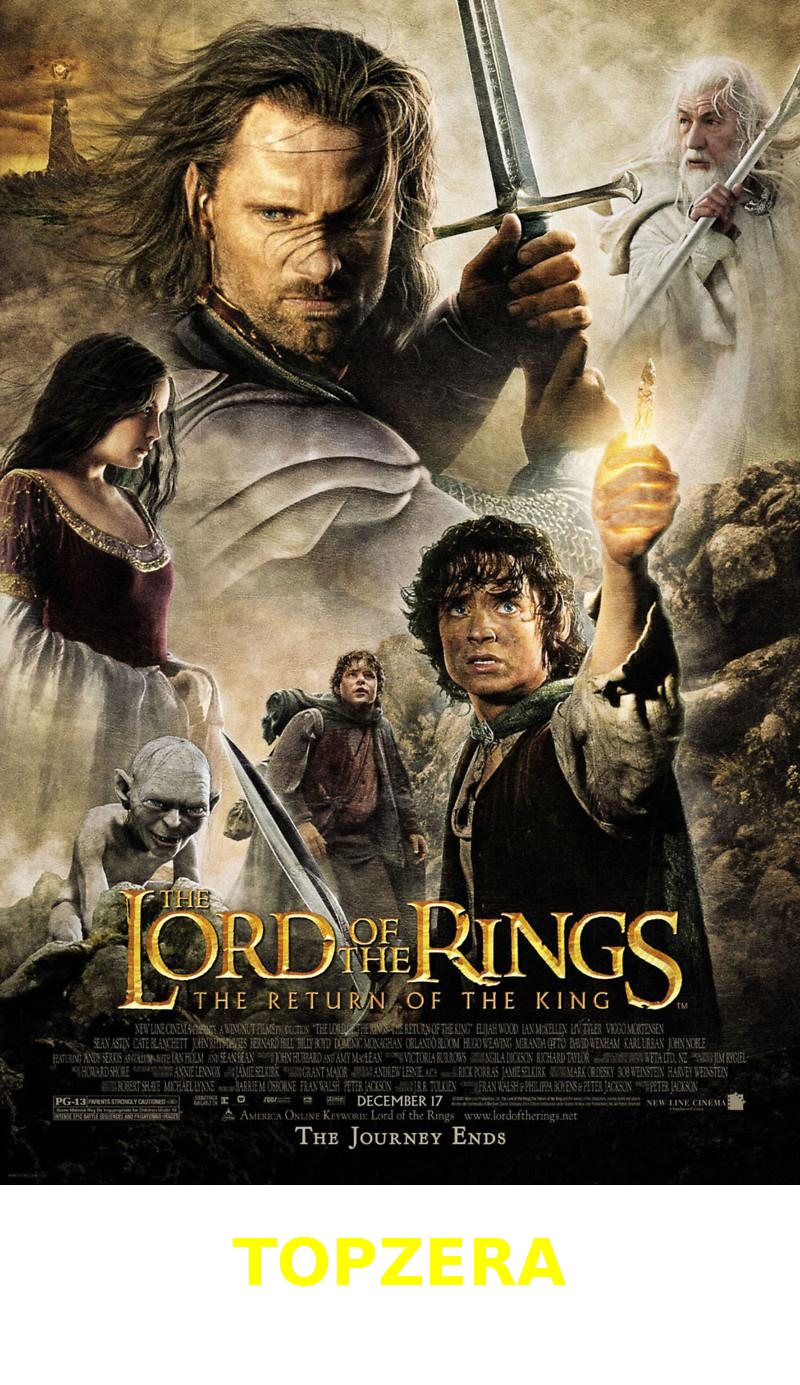
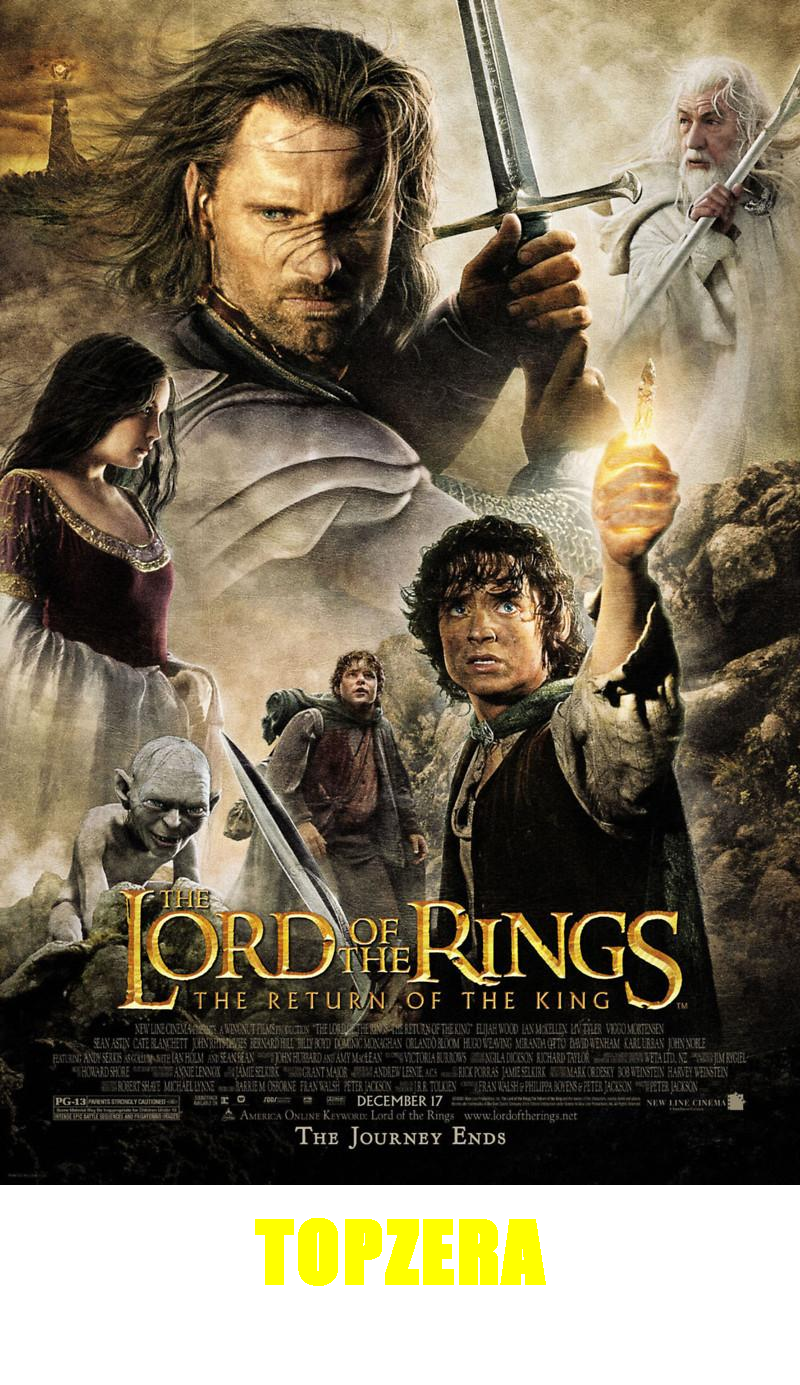
desafio 03

Changed region(s): [[0.2812, 0.8693, 0.7188, 0.9314]]

diff --git a/alura-stickers/src/GeradoraDeFigurinhas.java b/alura-stickers/src/GeradoraDeFigurinhas.java
@@ -31,7 +31,8 @@ public class GeradoraDeFigurinhas {
         graphics.drawImage(imagemOriginal, 0, 0, null);
 
         // configurar a fonte
-        var fonte = new Font(Font.SANS_SERIF, Font.BOLD, 64);
+        //var fonte = new Font(Font.SANS_SERIF, Font.BOLD, 64);
+        var fonte = new Font("Impact", Font.BOLD, 80);
         graphics.setColor(Color.YELLOW);
         graphics.setFont(fonte);
 
